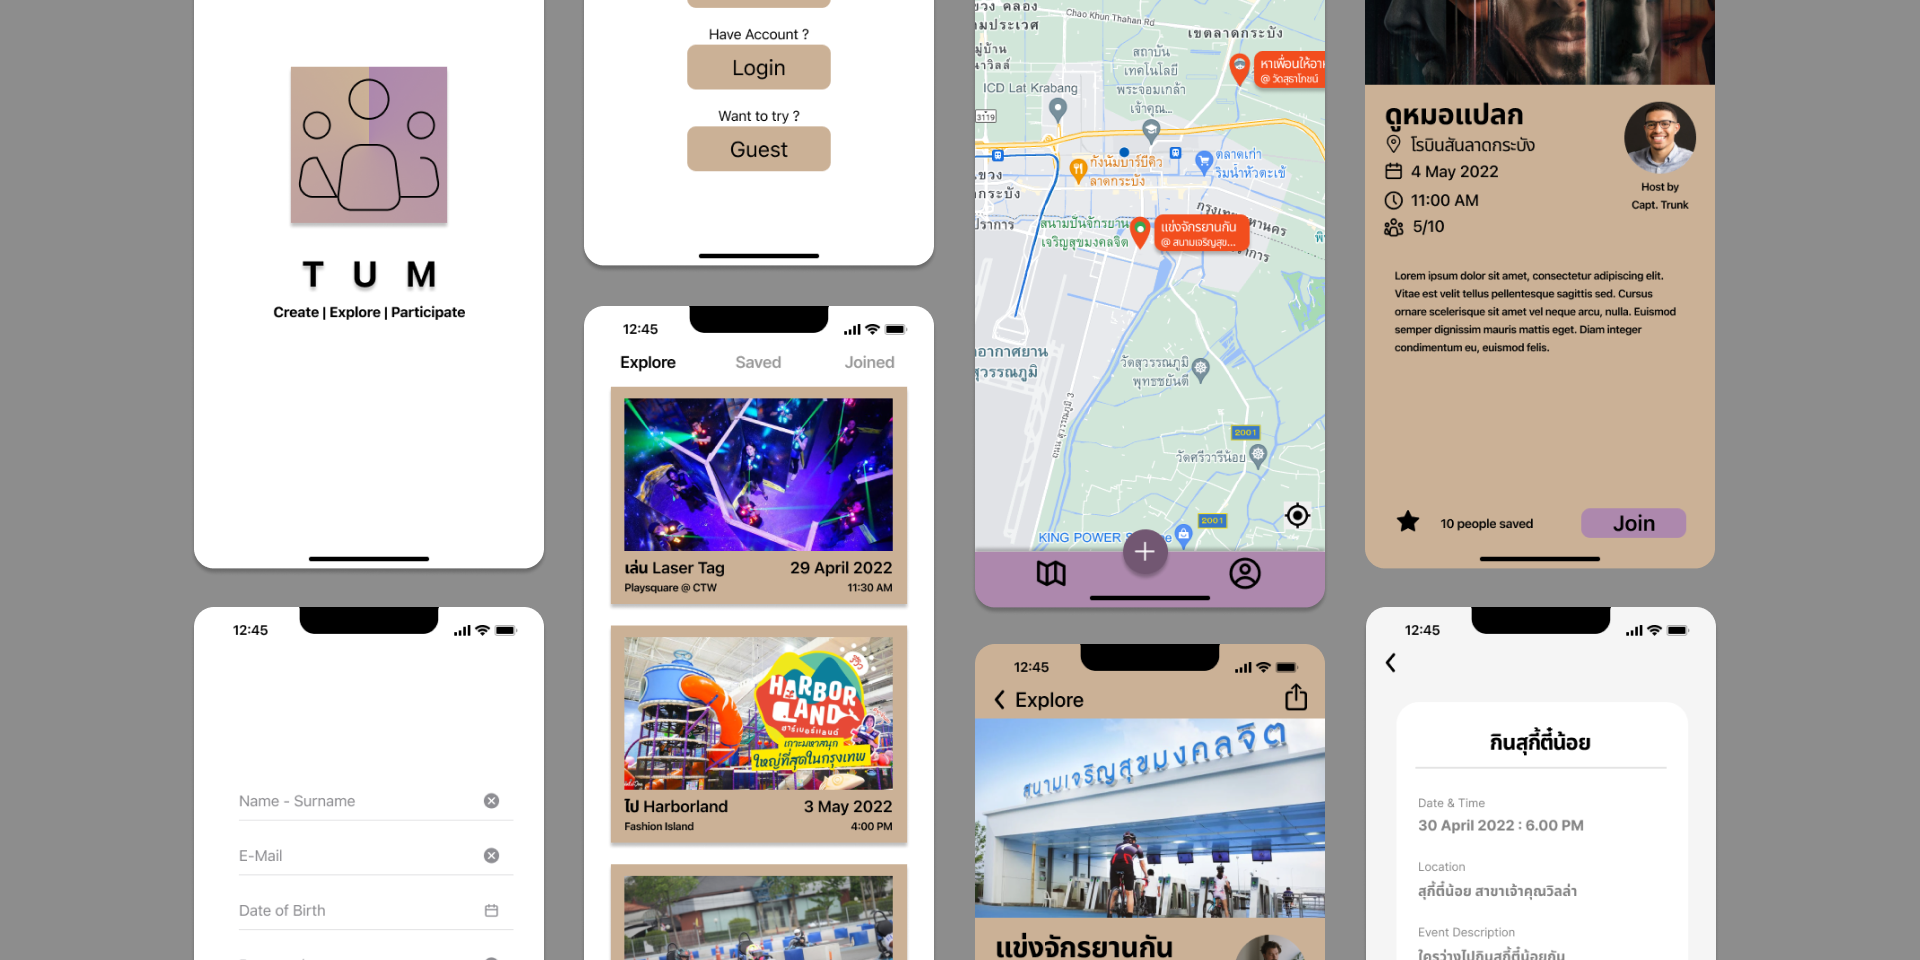
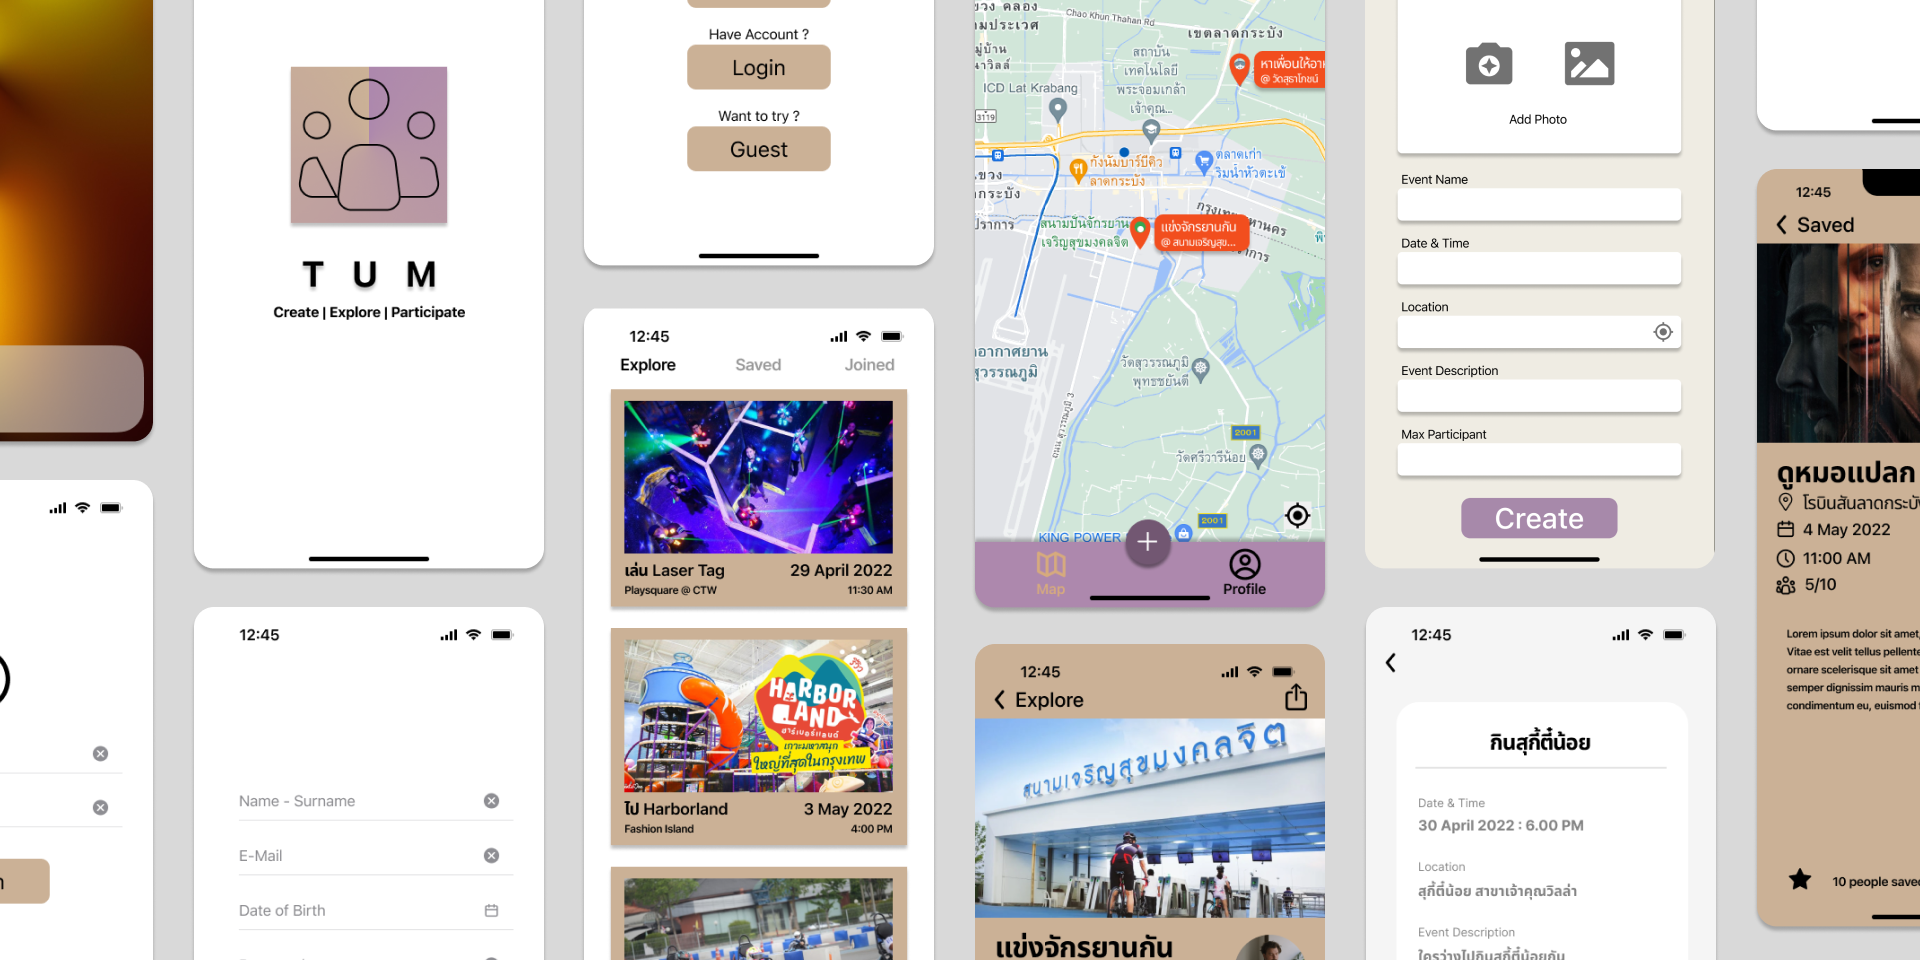
update first blog & photos

diff --git a/styles/globals.css b/styles/globals.css
@@ -24,7 +24,7 @@ body {
   background: radial-gradient(
     circle,
     rgb(107, 248, 163) 0%,
-    rgba(248, 107, 140, 0.8) 100%
+    rgba(248, 107, 140) 100%
   );
 }
 .gradient-circle-bottom {
@@ -38,8 +38,8 @@ body {
   filter: blur(40px);
   background: radial-gradient(
     circle,
-    rgba(248, 107, 223, 1) 0%,
-    rgba(107, 107, 248, 0.8) 100%
+    rgba(107, 248, 163) 0%,
+    rgba(248, 107, 140) 100%
   );
 }
 

diff --git a/_posts/firstblog.md b/_posts/firstblog.md
@@ -33,35 +33,13 @@ From this photo, it's when we're brainstorming about how might we in many situat
 
 ## EP.3 Design
 
-Contrary to popular belief, Lorem Ipsum is not simply random text. It has roots in a piece of classical Latin literature from 45 BC, making it over 2000 years old. Richard McClintock, a Latin professor at Hampden-Sydney College in Virginia, looked up one of the more obscure Latin words, consectetur, from a Lorem Ipsum passage, and going through the cites of the word in classical literature, discovered the undoubtable source. Lorem Ipsum comes from sections 1.10.32 and 1.10.33 of "de Finibus Bonorum et Malorum" (The Extremes of Good and Evil) by Cicero, written in 45 BC. This book is a treatise on the theory of ethics, very popular during the Renaissance. The first line of Lorem Ipsum, "Lorem ipsum dolor sit amet..", comes from a line in section 1.10.32.
+After we got the idea of event & join, our users must create an event to allow other people to join their event or they can joint other existing event.
+![TUM LOFI](https://github.com/BXSS101/my-react-portfolio/blob/main/photo/TUM/tum_lofi.jpg?raw=true)
+From this wireframe shows that I can browse events, or can create event by themself.
 
-
-## BLockquote
-
-> Lorem Ipsum is simply dummy text of the printing and typesetting industry. Lorem Ipsum has been the industry's standard dummy text ever since the 1500s, when an unknown printer took a galley of type and scrambled it to make a type specimen book.
-
-## Ordered List with horizontal line
-
-1. First item
-2. Second item
-3. Third item
-4. Fourth item
 
 ---
 
-## Unordered List With Horizontal line
+## Test Prorotype
 
-- First item
-- Second item
-- Third item
-- Fourth item
-
----
-
-## Links
-
-My favorite search engine is [Duck Duck Go](https://duckduckgo.com).
-
-## Images
-
-![An old rock in the desert](https://images.unsplash.com/photo-1654475677192-2d869348bb4c?ixlib=rb-1.2.1&ixid=MnwxMjA3fDB8MHxwaG90by1wYWdlfHx8fGVufDB8fHx8&auto=format&fit=crop&w=1170&q=80)
+Figma Prototype [Click Here](https://www.figma.com/proto/z8zVsWjY5clA4s4Qi8vI1g/T-U-M-Together-Anything?page-id=7%3A29&type=design&node-id=139-1465&viewport=1073%2C84%2C0.49&scaling=scale-down&starting-point-node-id=139%3A1465)

diff --git a/_posts/6110b455-7e25-4783-8888-ea0abac37bc4.md b/_posts/6110b455-7e25-4783-8888-ea0abac37bc4.md
@@ -2,8 +2,11 @@
 date: '2023-04-30T14:10:13.000Z'
 title: The making of Delivery Man (Coming Soon)
 tagline: '[App Design]'
-preview: ''
+preview: >-
+  This idea started when I was doing my UXUI Final Examination and one
+  proposition told me to design an app for one specific occupation.
 image: >-
   https://github.com/BXSS101/my-react-portfolio/blob/main/photo/Cover_DeliveryMan.jpg?raw=true
 ---
-# New Blog
+# Delivery Man (Under Construction)
+This idea started when I was doing my UXUI Final Examination and one proposition told me to design an app for one specific occupation.
